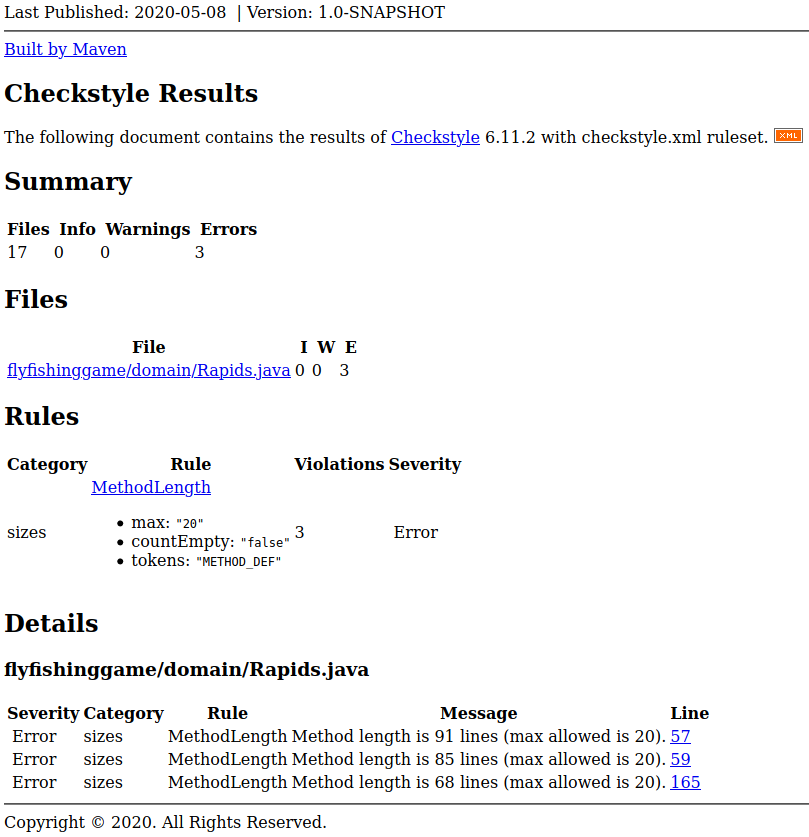
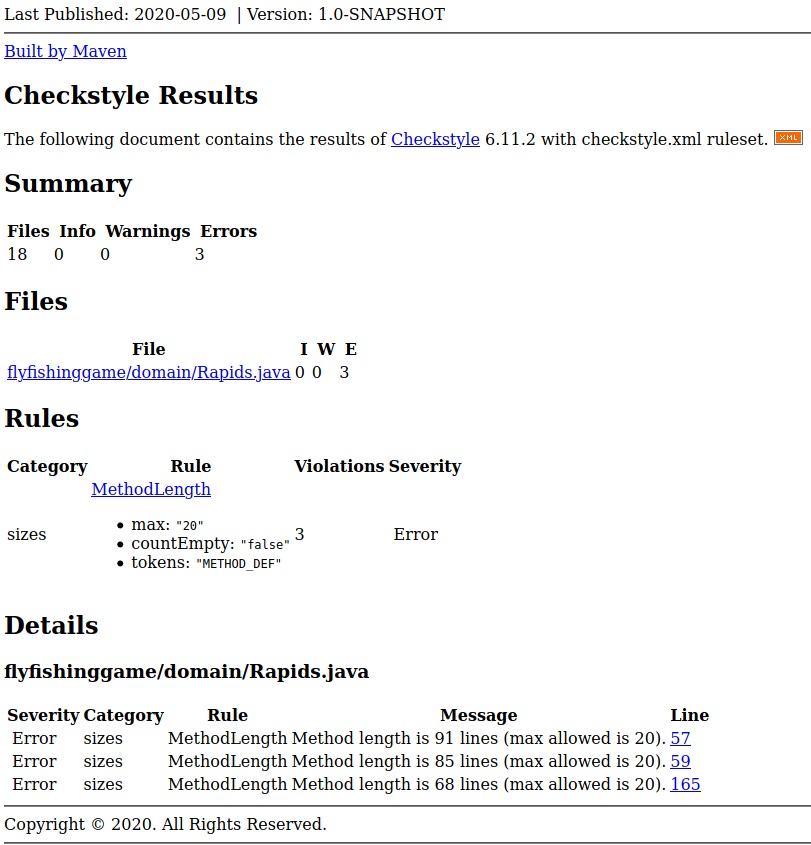
Lisätty StartPage ja FishCatched luokat Checkstylen piiriin (+ Javadocit kuntoon).

diff --git a/FlyfishingGame/src/main/java/flyfishinggame/ui/FishCatchedPage.java b/FlyfishingGame/src/main/java/flyfishinggame/ui/FishCatchedPage.java
@@ -21,6 +21,8 @@ public class FishCatchedPage {
     /**
      * If player catches a fish, show the length of the fish and points of that
      * catch.
+     * 
+     * @param fish the fish that is been caught.
      */
     public void createPage(Fish fish) {
         BorderPane fishCatched = new BorderPane();
@@ -30,11 +32,7 @@ public class FishCatchedPage {
                 + ((int) fish.getSize()) * 5 + " cm trout!"
                 + "\n                   You earned "
                 + ((int) fish.getSize()) * 5 + " points!"
-                + " \n"
-                + " \n"
-                + " \n"
-                + " \n"
-                + " \n");
+                + " \n" + " \n" + " \n" + " \n" + " \n");
         textForFisher.setFont(new Font("Arial", 40));
         fishCatched.setTop(textForFisher);
         fishCatched.setCenter(continueButton);

diff --git a/FlyfishingGame/src/main/java/flyfishinggame/ui/StartPage.java b/FlyfishingGame/src/main/java/flyfishinggame/ui/StartPage.java
@@ -19,6 +19,7 @@ import javafx.scene.text.Font;
  * @author Matias Tamsi
  */
 public class StartPage {
+
     /**
      * Start page is formed by calling this method.
      */
@@ -26,8 +27,7 @@ public class StartPage {
         //Use borderpane as a base for features.
         BorderPane startingSight = new BorderPane();
         startingSight.setPrefSize(WIDTH, HEIGHT);
-        Label startingText = new Label("\n"
-                + "     Hi flyfisher! Good to see you!\n\n"
+        Label startingText = new Label("\n" + "     Hi flyfisher! Good to see you!\n\n"
                 + "     You might already know this, but here is a tip for you:\n"
                 + "     Fish, such as trout, waits for food in flows caused by rocks.\n\n"
                 + "     When you feel ready, give your nickname and press the start.\n"

diff --git a/FlyfishingGame/src/main/java/flyfishinggame/domain/Line.java b/FlyfishingGame/src/main/java/flyfishinggame/domain/Line.java
@@ -57,8 +57,7 @@ public class Line {
      */
     public void clear(Pane pane) {
         if (!line.isEmpty()) {
-            line.forEach(point
-                    -> pane.getChildren().remove(point.getShapePolygon()));
+            line.forEach(point -> pane.getChildren().remove(point.getShapePolygon()));
             line.clear();
             pane.getChildren().remove(wave.getShapePolygon());
         }
